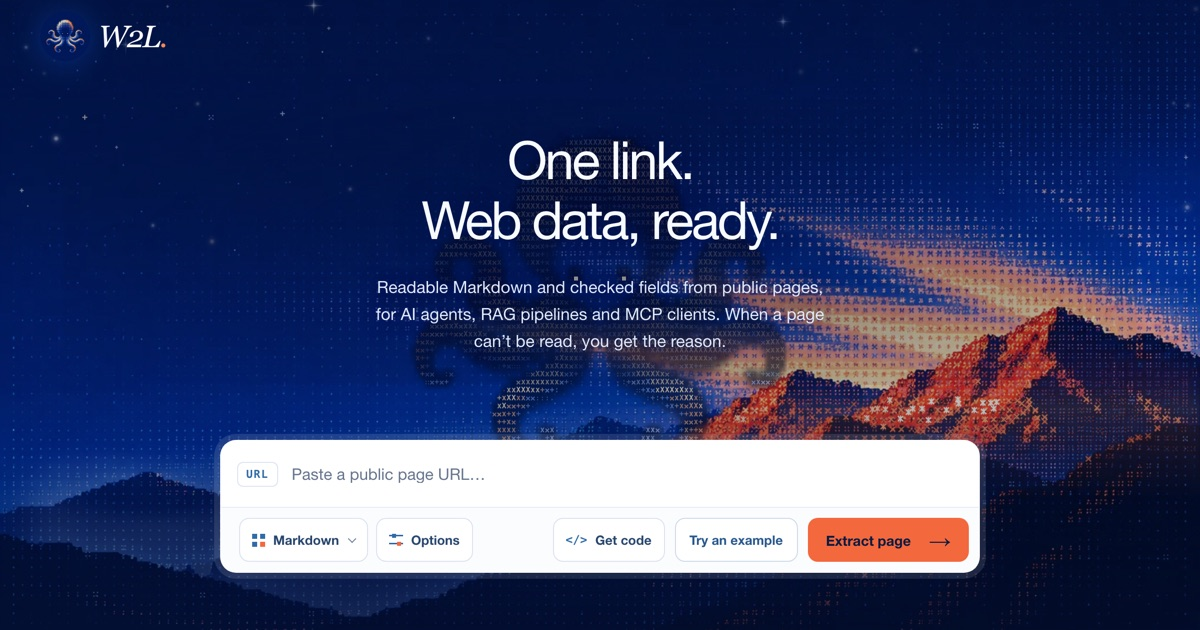
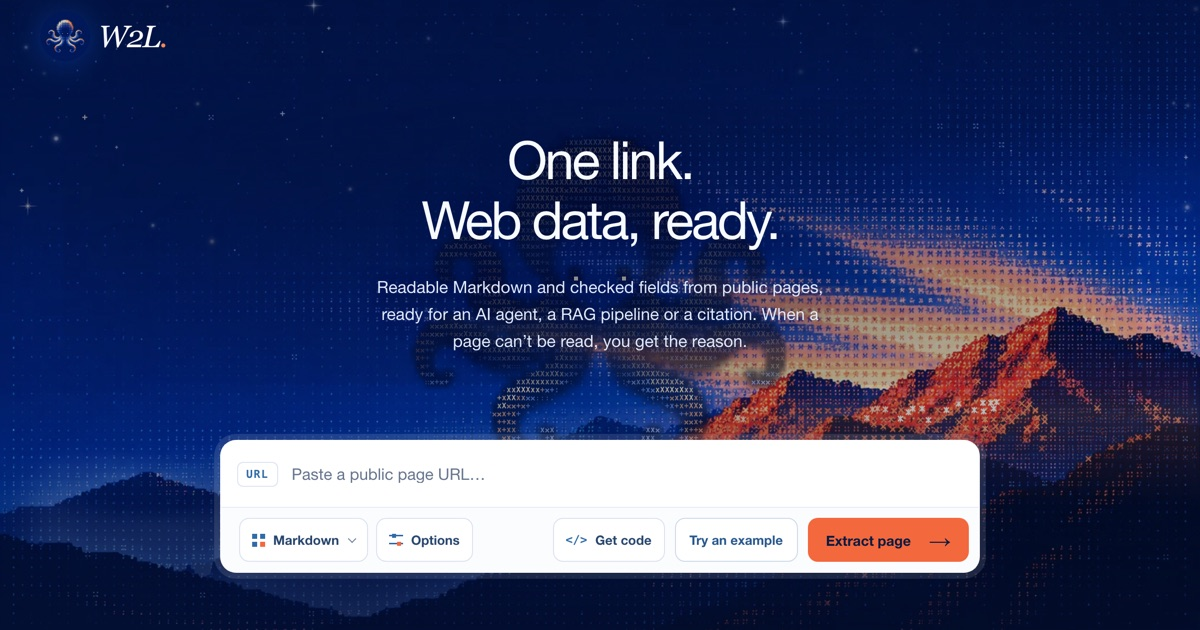
fix(public-preview): keep typed addresses out of the request log, expire quota counters
- The page sends the address for its capability hint in a POST body,
  which Cloud Run's request log does not keep; GET still works for
  developers and is documented as logging the address.
- Quota counters carry expireAt, one day after the UTC day they count,
  for a Firestore TTL policy on publicPreviewQuotas (runbook command
  added; existing counters need a one-time cleanup).
- Hero and footer copy reach researchers as well as agent builders:
  "ready for an AI agent, a RAG pipeline or a citation"; share card
  regenerated.

Changed region(s): [[0.3083, 0.4825, 0.6783, 0.573]]

diff --git a/packages/public-preview/src/server.ts b/packages/public-preview/src/server.ts
@@ -62,6 +62,8 @@ function empty(status: PreviewResponse['status'], url: string, reason: string, t
  * turn into an unbounded stream of reads. A count with previews left is always read fresh, since a preview on another
  * instance may have used one; only a used-up day is cached, until the next UTC midnight, as it cannot change before. */
 const QUOTA_LOOKUPS_PER_MINUTE = 120
+/** A capability request holds one address of at most 2,048 characters. */
+const CAPABILITY_BODY_BYTES = 4_096
 
 function nextUtcMidnight(now = new Date()): number {
   return Date.UTC(now.getUTCFullYear(), now.getUTCMonth(), now.getUTCDate() + 1)
@@ -191,11 +193,27 @@ export function createPreviewHandler(options: PreviewServerOptions): (req: Incom
       return
     }
     if (pathname === '/api/capability') {
-      if (req.method !== 'GET') { res.writeHead(405, { allow: 'GET' }).end(); return }
+      // GET takes the address in the query, so it lands in the hosting request log; the page itself POSTs it in the
+      // body, which the log does not keep.
+      if (req.method !== 'GET' && req.method !== 'POST') { res.writeHead(405, { allow: 'GET, POST' }).end(); return }
+      if (req.method === 'POST' && (!requestOriginAllowed(req, siteHost(req, publicOrigin)) || req.headers['sec-fetch-site'] === 'cross-site')) {
+        res.writeHead(403, { 'cache-control': 'no-store' }).end(); return
+      }
       try {
-        const entries = [...requestUrl.searchParams.entries()]
-        if (entries.length !== 1 || entries[0]?.[0] !== 'url') throw new Error('Provide one public URL in the url query parameter.')
-        const target = normalizePreviewUrl(entries[0][1])
+        let address: string
+        if (req.method === 'POST') {
+          if (requestUrl.search) throw new Error('Send the address in the request body only.')
+          const body = await readRequestBody(req, CAPABILITY_BODY_BYTES)
+          const keys = body !== null && typeof body === 'object' && !Array.isArray(body) ? Object.keys(body) : []
+          const value = (body as { url?: unknown } | null)?.url
+          if (keys.length !== 1 || typeof value !== 'string') throw new Error('Send a JSON object with one url.')
+          address = value
+        } else {
+          const entries = [...requestUrl.searchParams.entries()]
+          if (entries.length !== 1 || entries[0]?.[0] !== 'url') throw new Error('Provide one public URL in the url query parameter.')
+          address = entries[0][1]
+        }
+        const target = normalizePreviewUrl(address)
         sendJson(res, 200, { requestedUrl: target.url, capability: resolvePreviewCapability(target) })
       } catch (error) {
         sendJson(res, 400, { error: 'invalid_url', reason: error instanceof Error ? error.message : 'Invalid URL.' })

diff --git a/packages/public-preview/src/quota.ts b/packages/public-preview/src/quota.ts
@@ -21,6 +21,12 @@ export function quotaStatus(siteUsed: number, visitorUsed: number): QuotaStatus 
   return { decision, limit: VISITOR_DAILY_PREVIEWS, remaining }
 }
 
+/** When a day's counters may go: one day after that UTC day ends. A Firestore TTL policy on `expireAt` in the
+ * publicPreviewQuotas collection group deletes them after that (docs/public-preview.md). */
+export function quotaExpiry(now: Date): Date {
+  return new Date(Date.UTC(now.getUTCFullYear(), now.getUTCMonth(), now.getUTCDate() + 2))
+}
+
 export interface PreviewQuota {
   /** Advisory read-only check before acquiring a scarce origin permit. */
   check?(visitor: string, now?: Date, execution?: ExecutionBudget): Promise<QuotaDecision>
@@ -96,7 +102,7 @@ export class FirestorePreviewQuota implements PreviewQuota {
       const response = await this.fetcher(`${this.endpointBase}:commit`, {
         method: 'POST',
         headers: { authorization: `Bearer ${token}`, 'content-type': 'application/json' },
-        body: JSON.stringify({ writes: [this.write(all), this.write(own)] }),
+        body: JSON.stringify({ writes: [this.write(all, now), this.write(own, now)] }),
         signal: this.requestSignal(execution, 5_000),
       })
       if (response.ok) return 'ok'
@@ -111,9 +117,9 @@ export class FirestorePreviewQuota implements PreviewQuota {
     throw new Error('Firestore quota contention exceeded retry budget')
   }
 
-  private write(doc: DocumentRead): Record<string, unknown> {
+  private write(doc: DocumentRead, now: Date): Record<string, unknown> {
     return {
-      update: { name: doc.name, fields: { count: { integerValue: String(doc.count + 1) } } },
+      update: { name: doc.name, fields: { count: { integerValue: String(doc.count + 1) }, expireAt: { timestampValue: quotaExpiry(now).toISOString() } } },
       currentDocument: doc.updateTime === null ? { exists: false } : { updateTime: doc.updateTime },
     }
   }

diff --git a/packages/public-preview/test/quota.test.ts b/packages/public-preview/test/quota.test.ts
@@ -1,5 +1,5 @@
 import { describe, expect, it } from 'vitest'
-import { FirestorePreviewQuota, quotaStatus } from '../src/quota.js'
+import { FirestorePreviewQuota, quotaExpiry, quotaStatus } from '../src/quota.js'
 
 interface Saved { count: number; updateTime: string }
 const restPrefix = 'https://firestore.googleapis.com/v1/'
@@ -49,6 +49,20 @@ describe('durable preview quota', () => {
     expect([...store.docs.values()].map(value => value.count).sort((a, b) => a - b)).toEqual([3, 3])
     expect([...store.docs.keys()].every(name => name.startsWith('projects/sample-project/databases/(default)/documents/'))).toBe(true)
     expect(store.names.join(' ')).not.toContain('203.0.113.10')
+  })
+
+  it('stamps both counters with an expiry one day after the day they count', async () => {
+    const bodies: string[] = []
+    const store = fakeFirestore()
+    const fetcher = (async (input: RequestInfo | URL, init?: RequestInit) => {
+      if (init?.method === 'POST') bodies.push(String(init.body))
+      return store.fetcher(input, init)
+    }) as typeof fetch
+    const quota = new FirestorePreviewQuota('sample-project', 'x'.repeat(32), fetcher)
+    await quota.consume('visitor-a', new Date('2026-09-24T23:59:00Z'))
+    const writes = (JSON.parse(bodies[0]!) as { writes: { update: { fields: { expireAt?: { timestampValue: string } } } }[] }).writes
+    expect(writes.map(write => write.update.fields.expireAt?.timestampValue)).toEqual(['2026-09-26T00:00:00.000Z', '2026-09-26T00:00:00.000Z'])
+    expect(quotaExpiry(new Date('2026-09-24T00:00:00Z')).toISOString()).toBe('2026-09-26T00:00:00.000Z')
   })
 
   it('reads what a visitor has left without writing, capped by what the site has left', async () => {

diff --git a/apps/public-web/src/page.ts b/apps/public-web/src/page.ts
@@ -33,7 +33,7 @@ export function pageMarkup(): string {
             <div class="hero-octopus-cell" id="hero-ascii" data-calm="#hero-title, .hero-description" data-reach=".url-card" aria-hidden="true"></div>
             <div class="hero-cell hero-copy">
               <h1 id="hero-title">One link.<br /><em>Web data, ready.</em></h1>
-              <p class="hero-description">Readable Markdown and checked fields from public pages, for AI agents, RAG pipelines and MCP&nbsp;clients. When a page can’t be read, you get the reason.</p>
+              <p class="hero-description">Readable Markdown and checked fields from public pages, ready for an AI&nbsp;agent, a RAG pipeline or a&nbsp;citation. When a page can’t be read, you get the reason.</p>
             </div>
           </div>
         </div>
@@ -297,7 +297,7 @@ export function pageMarkup(): string {
           <div class="footer-brand-cell">
             <a class="brand footer-brand" href="#top" aria-label="W2L home"><img class="brand-mark" src="/assets/octopus-original.webp" alt="" width="40" height="40" /><span class="brand-name">W2L<span class="brand-dot">.</span></span></a>
             <p class="footer-tagline">Start with one link.</p>
-            <p class="footer-note">Open-source web extraction for AI agents</p>
+            <p class="footer-note">Open-source web data you can cite</p>
           </div>
           <div class="footer-cards">
             <a class="footer-card is-primary" href="#top"><span class="footer-card-mark" aria-hidden="true">→</span>Try a page<span class="card-arrow" aria-hidden="true">↑</span></a>

diff --git a/packages/public-preview/test/preview.test.ts b/packages/public-preview/test/preview.test.ts
@@ -61,7 +61,14 @@ describe('anonymous preview contract', () => {
     expect([captures, quotaCalls]).toEqual([0, 0])
     expect((await fetch(`${url}/api/capability?url=file:///etc/passwd`)).status).toBe(400)
     expect((await fetch(`${url}/api/capability?url=https://docs.example&debug=true`)).status).toBe(400)
-    expect((await fetch(`${url}/api/capability`, { method: 'POST' })).status).toBe(405)
+    expect((await fetch(`${url}/api/capability`, { method: 'PUT' })).status).toBe(405)
+    // The page sends the address in the body, so it never appears in a request log's path and query.
+    const posted = await fetch(`${url}/api/capability`, { method: 'POST', headers: { 'content-type': 'application/json' }, body: JSON.stringify({ url: 'https://www.amazon.sg/dp/B0D4DHBFFH' }) })
+    expect(await posted.json()).toMatchObject({ capability: { task: 'amazon_sg_product' } })
+    const post = (body: unknown, headers: Record<string, string> = {}) => fetch(`${url}/api/capability`, { method: 'POST', headers: { 'content-type': 'application/json', ...headers }, body: JSON.stringify(body) })
+    expect((await post({ url: 'https://docs.example', debug: true })).status).toBe(400)
+    expect((await post({ url: 'https://docs.example' }, { origin: 'https://evil.example' })).status).toBe(403)
+    expect((await fetch(`${url}/api/capability?url=x`, { method: 'POST', headers: { 'content-type': 'application/json' }, body: JSON.stringify({ url: 'https://docs.example' }) })).status).toBe(400)
   })
 
   it('keeps hosted X and Reddit routes conditional despite local adapters', () => {

diff --git a/apps/public-web/src/main.ts b/apps/public-web/src/main.ts
@@ -217,7 +217,11 @@ function scheduleCapability(): void {
     const request = new AbortController()
     capabilityRequest = request
     try {
-      const response = await fetch(`/api/capability?url=${encodeURIComponent(url)}`, { signal: request.signal, credentials: 'same-origin' })
+      // In the body, not the query string: the hosting request log keeps every request's path and query.
+      const response = await fetch('/api/capability', {
+        method: 'POST', headers: { 'Content-Type': 'application/json' }, body: JSON.stringify({ url }),
+        signal: request.signal, credentials: 'same-origin',
+      })
       if (!response.ok) return
       const result = await response.json() as CapabilityResponse
       if (request.signal.aborted || normalizeUrl(input.value) !== url) return

diff --git a/apps/public-web/content/privacy.md b/apps/public-web/content/privacy.md
@@ -8,14 +8,14 @@ Last updated 2 October 2026.
 
 The address you paste is fetched by the preview service, and the result goes back to your browser. The service does not save the result: your recent runs live in the page and are gone when you leave it.
 
-While you type, the page asks `GET /api/capability?url=…` for the short note under the field. That request, like every request to the service, appears in the hosting provider's request log (see below), so the address you typed is in that log.
+While you type, the page sends the address to `/api/capability` for the short note under the field. It goes in the body of the request, which the hosting provider's request log (see below) does not keep, so the log shows that a hint was asked for but not the address.
 
 When the page opens, and after each preview, it asks `GET /api/quota` how many previews you have left today. That only reads your daily counter; it never counts a preview.
 
 ## What the page records
 
 - **One cookie, `w2l_visitor`.** A random identifier, signed by the service, kept for a year. It counts your three previews a day, and the same identifier (or, without the cookie, your IP address), hashed per day, is the pseudonym on page events and preview outcomes (below). It is not shared with anyone.
-- **A daily preview counter.** For each UTC day, a count of previews under a keyed hash of that day and your cookie (or, without the cookie, your IP address). Without the service's secret key, the hash cannot be turned back into either. These counters are kept in Google Cloud Firestore and do not yet expire.
+- **A daily preview counter.** For each UTC day, a count of previews under a keyed hash of that day and your cookie (or, without the cookie, your IP address). Without the service's secret key, the hash cannot be turned back into either. These counters are kept in Google Cloud Firestore and expire one day after the day they count; Firestore then deletes them, usually within a day.
 - **Page events.** The page tells its own service when it is opened and when you choose an example, switch a tab under Recorded results or Run it yourself, change the output view, copy or download a result, open Get code or copy code from it, from Run it yourself or from the docs, pick an MCP client in the docs, or follow a link. Each event names the page path, the referring site's host (never its path), any `utm_` tags on the address, the view, tab or client involved, and for a link, where it leads: its path on this site, or another site's host and path (never a query).
 - **Preview outcomes.** For each preview: its state (for example `success` or `blocked`), the diagnostic code, the **host** of the page you asked for (never its path or query), whether you set options, and the server time.
 

diff --git a/apps/public-web/content/limits.md b/apps/public-web/content/limits.md
@@ -8,7 +8,7 @@ The anonymous page allows three previews per browser visitor per UTC day and 100
 
 The browser preview accepts one public HTTP(S) URL per request, a main-content switch, and up to 20 fields read without a model. It does not accept visitor-supplied model prompts, browser sessions, other capture settings, private network targets, or raw HTML downloads; any other parameter returns HTTP 400 with `invalid_options` before a preview is counted. It reads pages of up to 2 MiB and files, such as PDFs, of up to 5 MiB. Generic pages use restricted HTTP capture; the public Amazon.sg `/dp/{ASIN}` route uses a configured anonymous browser context.
 
-Typing a URL on the [Try W2L page](/) shows a short note when the address is an Amazon.sg product, an X or Reddit post, or cannot be previewed. This hint comes from the same static rules used by the server; it does not contact the target site or spend a preview. Known private or reserved addresses are marked unsupported before capture; DNS results and redirects are checked by the guarded transport during extraction. The hint cannot predict whether a public site will allow access, return useful content, or select the requested product. Developers can read the planned route and its limitation with `GET /api/capability?url=<encoded-public-url>` on the preview host. Invalid input returns HTTP 400 without starting a capture.
+Typing a URL on the [Try W2L page](/) shows a short note when the address is an Amazon.sg product, an X or Reddit post, or cannot be previewed. This hint comes from the same static rules used by the server; it does not contact the target site or spend a preview. Known private or reserved addresses are marked unsupported before capture; DNS results and redirects are checked by the guarded transport during extraction. The hint cannot predict whether a public site will allow access, return useful content, or select the requested product. Developers can read the planned route and its limitation with `POST /api/capability` and a JSON body `{"url": "<public-url>"}` on the preview host, as the page does; `GET /api/capability?url=<encoded-public-url>` also works, but puts the address in the request log. Invalid input returns HTTP 400 without starting a capture.
 
 ## Interpret the status
 

diff --git a/docs/public-preview.md b/docs/public-preview.md
@@ -167,6 +167,16 @@ Cloud Run domain mapping is not available in `asia-southeast1`, and Cloudflare's
 
 With `W2L_PUBLIC_ORIGIN` set, page requests that did not come through the Worker (including direct `*.run.app` visits) get a 301 to the domain; `/api/*` and `/healthz` never redirect, so the release checks and holdout scripts keep working against the `run.app` URL. The Worker's free tier allows 100,000 requests a day.
 
+### Quota counter expiry
+
+Each daily counter document in `publicPreviewQuotas` carries `expireAt`, one day after the UTC day it counts (`quotaExpiry` in `packages/public-preview/src/quota.ts`). Firestore deletes expired documents only once a TTL policy exists on that field, so create it once per project:
+
+```sh
+gcloud firestore fields ttls update expireAt --collection-group=publicPreviewQuotas --enable-ttl --project="$W2L_PROJECT_ID"
+```
+
+Counters written before `expireAt` was added have no expiry and stay until deleted by hand. Firestore usually removes an expired document within a day of its `expireAt`.
+
 ### Page events
 
 The page sends first-party events to `POST /api/events` (same origin only; fixed event names and short properties). When the browser signals Do Not Track or Global Privacy Control, the page sends no events and the server logs neither events nor preview outcomes for that request. Each is one stdout line with `event: "w2l_web_event"`. Every anonymous `/api/preview` answer also logs one `event: "w2l_preview"` line with its state, diagnostic code, the target's host (never its path or query), whether options were used and the server time. Both carry `vid`, a pseudonym that changes every UTC day (an HMAC of the visitor key under `W2L_QUOTA_HASH_KEY`), and `automated`, a user-agent guess for filtering crawlers. Owner-token evaluation runs are not counted. The public [privacy page](../apps/public-web/content/privacy.md) describes all of this to visitors; change it with any change to what is logged. Read them in Cloud Logging:
